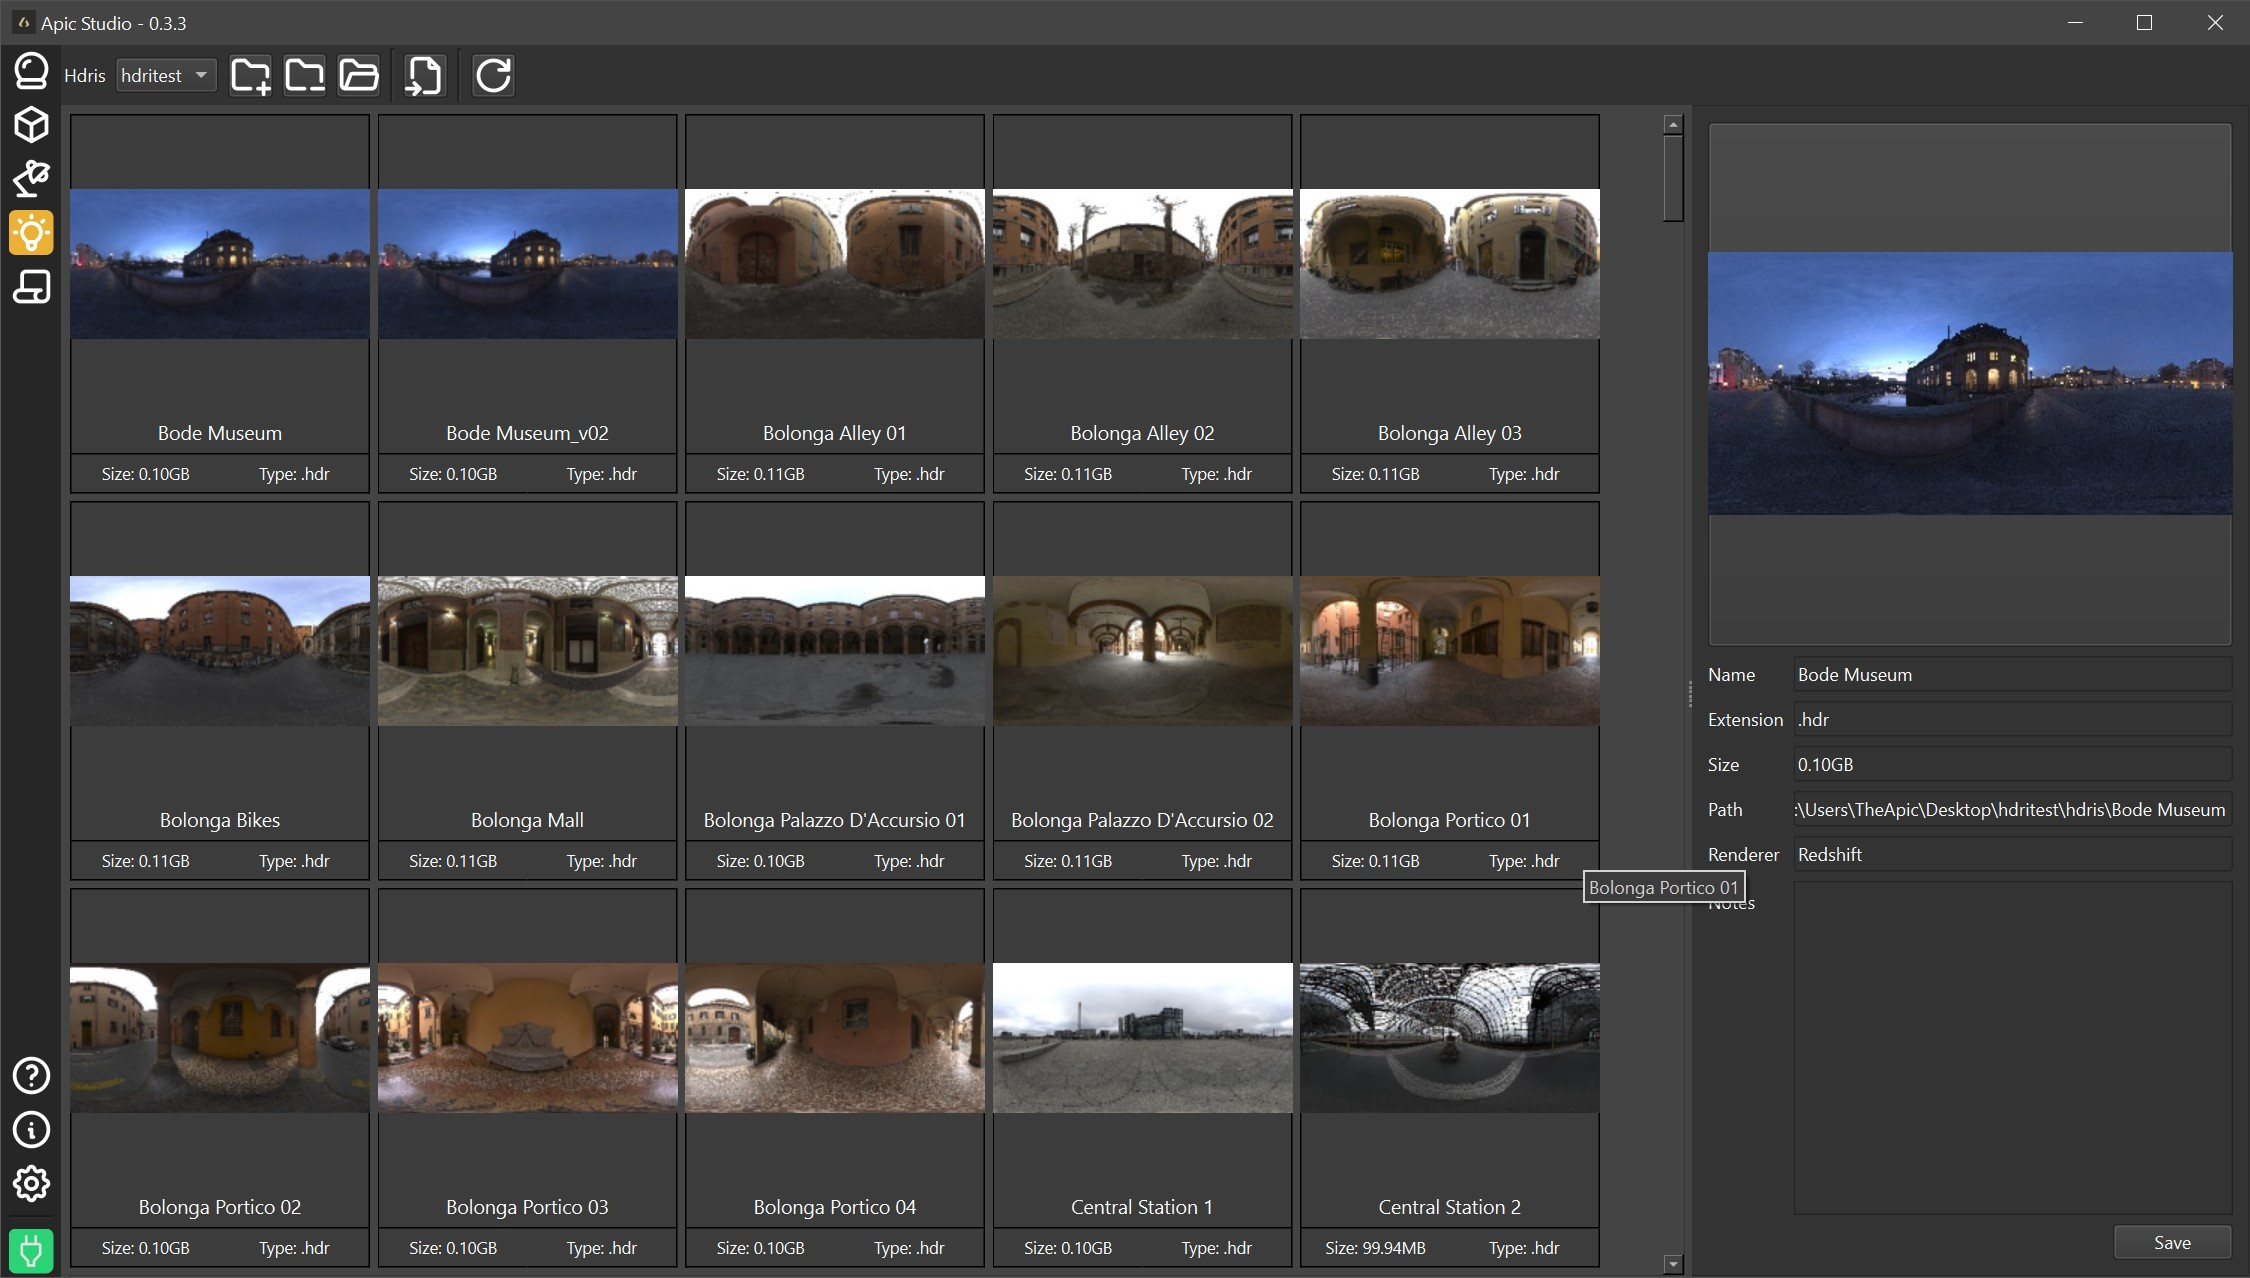
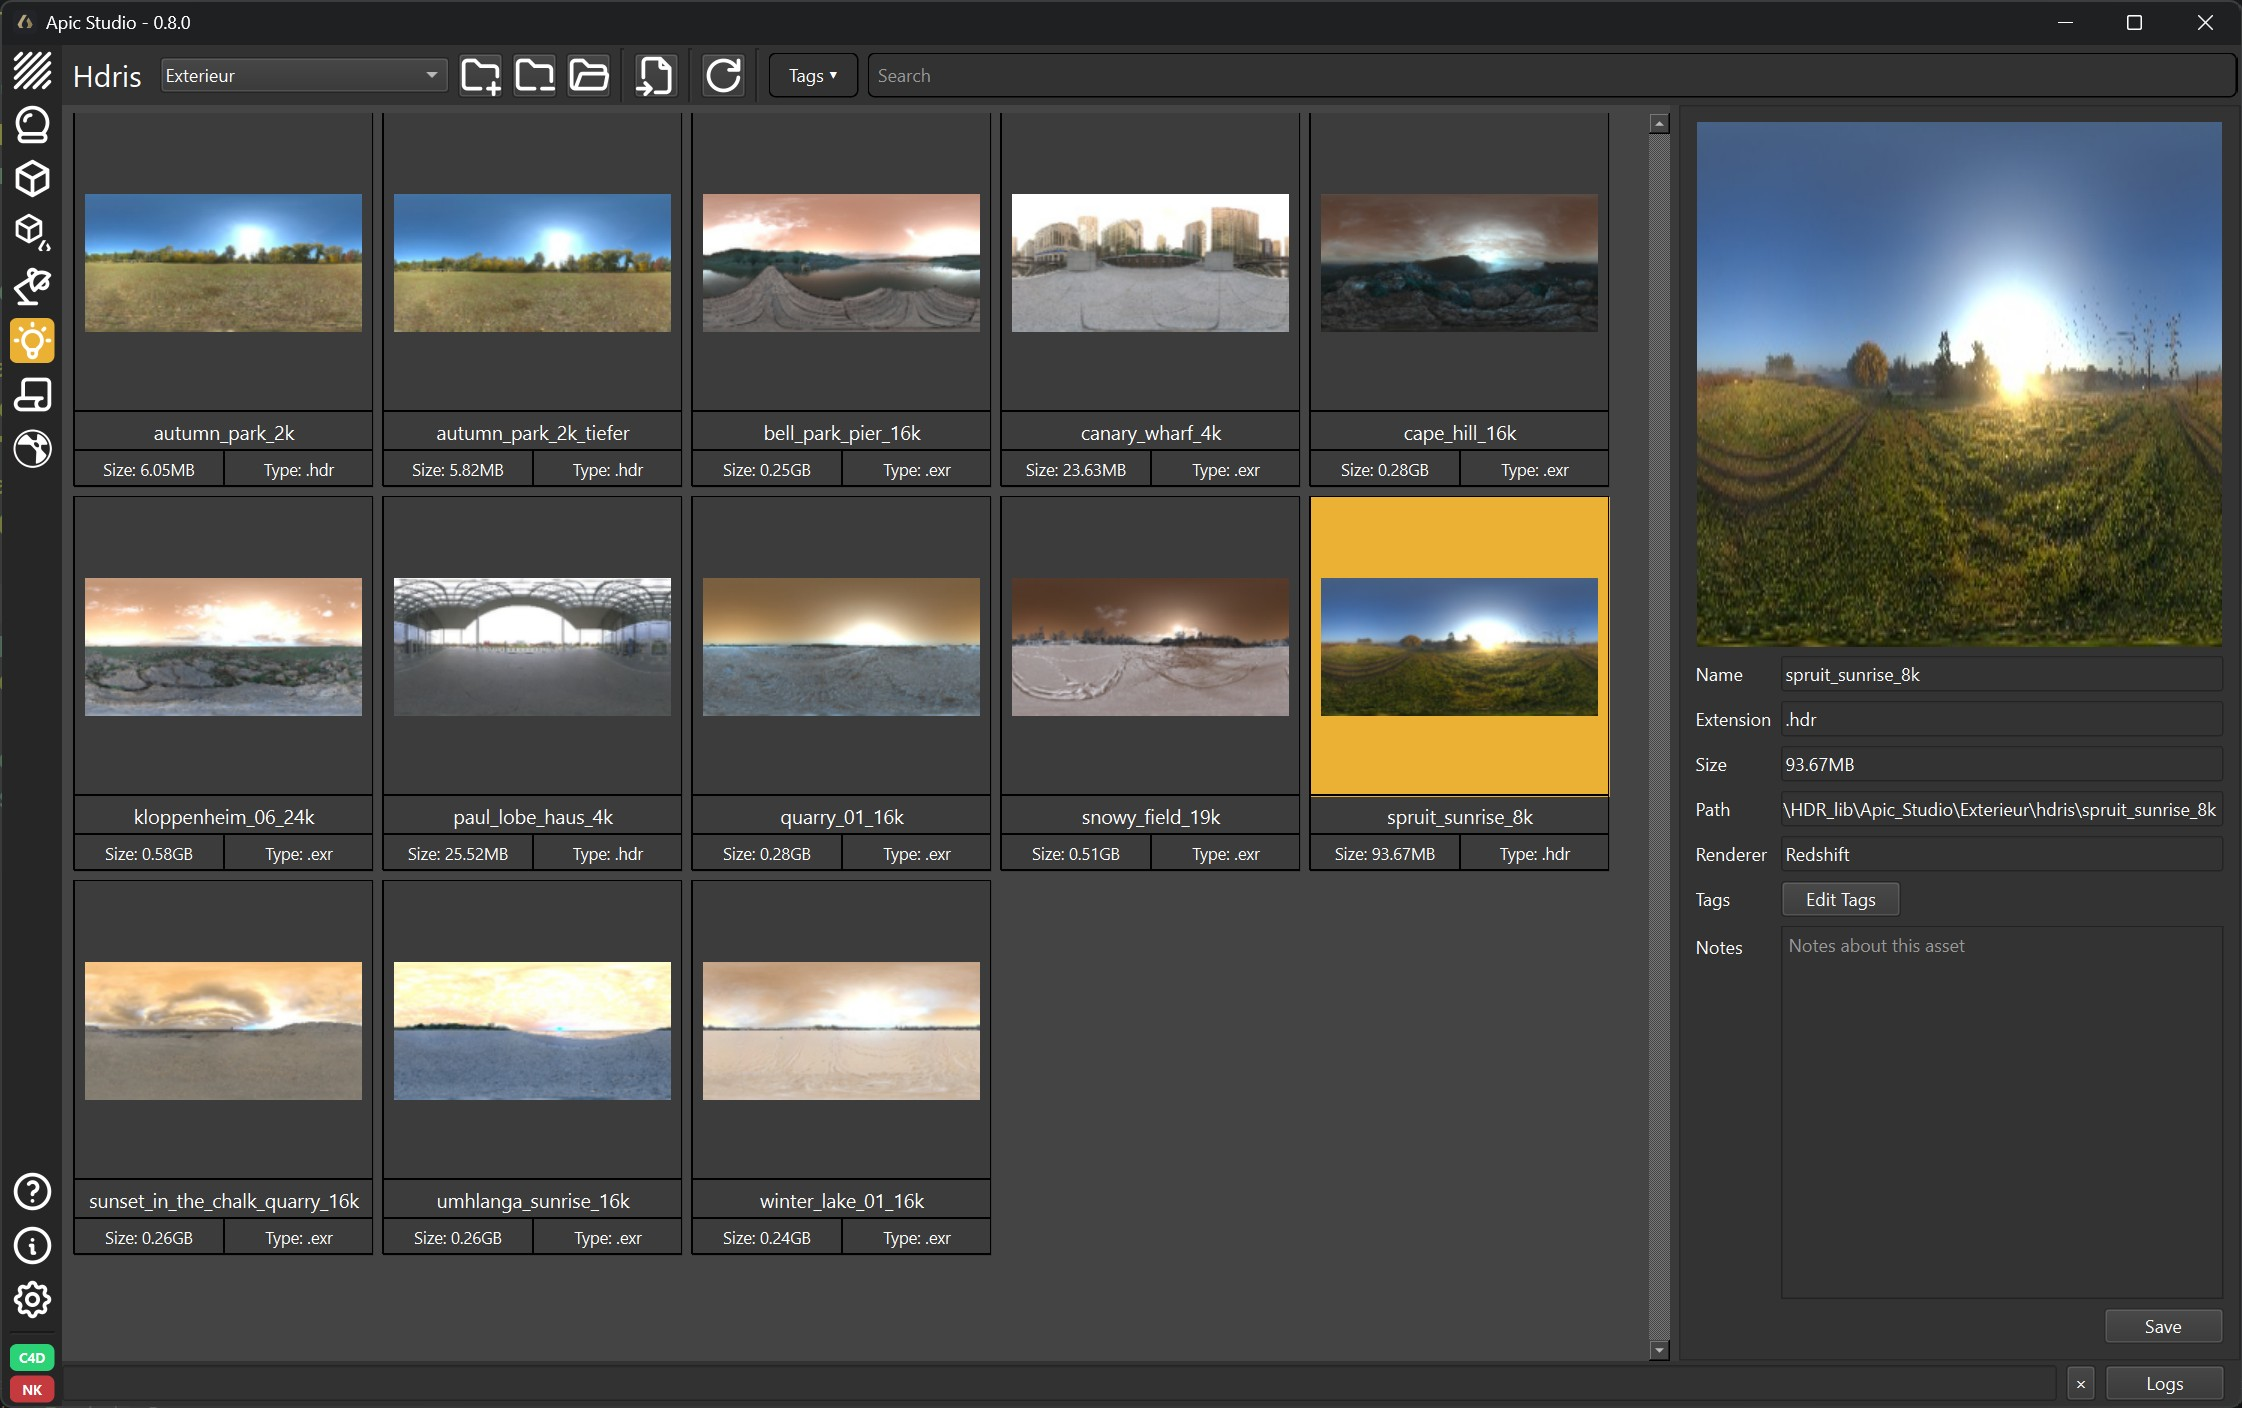
chore: new readme and screenshots

diff --git a/src/apic_studio/core/settings.py b/src/apic_studio/core/settings.py
@@ -7,7 +7,7 @@ from datetime import datetime
 from enum import Enum
 from pathlib import Path
 from socket import gethostname
-from typing import Any, TypeVar
+from typing import Any, ClassVar, TypeVar
 
 from shared.logger import Logger
 
@@ -20,7 +20,7 @@ class Renderer(Enum):
 
 
 class Settings(ABC):
-    settings: dict[str, type[Settings]] = {}
+    settings: ClassVar[dict[str, type[Settings]]] = {}
 
     def __init__(self):
         self.pools = {}
@@ -159,6 +159,14 @@ class CoreSettings(Settings):
     @property
     def nuke_address(self) -> tuple[str, int]:
         return (self.socket_addr, self.nuke_socket_port)
+
+    @property
+    def db_path(self) -> str:
+        return self._db_path
+
+    @property
+    def logging_path(self) -> str:
+        return self._logging_path
 
     def set_root_path(self, value: str):
         self.root_path = value

diff --git a/src/apic_studio/app.py b/src/apic_studio/app.py
@@ -23,7 +23,7 @@ class Application:
         self.settings.load_settings()
 
         Logger.write_to_file(
-            Path(self.settings.CoreSettings._logging_path), level=logging.INFO
+            Path(self.settings.CoreSettings.logging_path), level=logging.INFO
         )
         Logger.set_propagate(False)
         Logger.info("initializing Apic Studio...")

diff --git a/README.md b/README.md
@@ -1,24 +1,23 @@
 # Apic Studio
 
-Apic Studio is a desktop asset management and preview tool tightly integrated with Maxon Cinema 4D.  
-It provides structured pools for materials, models, HDRIs, and lightsets; supports preview rendering, backups, screenshots, and DCC communication to drive Cinema 4D operations (import/export, material previews, HDRI imports, etc.).
+Asset browser for Cinema 4D and Nuke. Assets live in pools on disk, Apic Studio talks to the running DCC to import, export and render previews.
 
 ![materials](./docs/apic-studio-materials.jpg)
+![model](./docs/apic-studio-models.jpg)
 ![hdris](./docs/apic-studio-hdris.jpg)
+![nuke](./docs/apic-studio-nuke.jpg)
 
-## Key Features
+## Features
 
-- Pool-based organization for **Materials**, **Models**, **HDRIs**, and **Lightsets**.
-- Cinema 4D bridge for:
-  - Importing/exporting models and materials.
-  - Rendering material previews.
-  - Loading HDRIs as dome/area lights.
-- Visual asset browser with thumbnails and metadata.
-- Backup system for versioned asset snapshots.
-- Screenshot utility for capturing regions.
-- Settings persistence per machine.
-- SQLite-based pool database.
-- UI built with **PySide6**.
+- Pools for materials, models, Apic models, lightsets, HDRIs, textures, render settings and Nuke scripts
+- Cinema 4D: import, export and reference models, import/export materials, render material previews, load HDRIs as dome or area light, repath textures
+- Render settings: save Cinema 4D and/or Redshift render settings to a pool and load them back into any scene
+- Nuke: export the current comp to a pool, import scripts or open them in place
+- Tags and notes per asset, filter by tags, rename or delete a tag across all pools
+- Search, rename, delete, open in Explorer
+- Archive/backups for models and materials, screenshot tool for thumbnails
+- Details panel (`Ctrl+I`) and a log viewer
+- Connection status for C4D and Nuke in the sidebar, click to reconnect
 
 ## Requirements
 
@@ -36,7 +35,9 @@ It provides structured pools for materials, models, HDRIs, and lightsets; suppor
 
 3. Set C4DPYTHONPATH311 Environment variable to the created directory.
 
-4. Run "Apic Studio.exe"
+4. Nuke (optional): put the directory on the Nuke plugin path and call `apic_connector.nuke.startup.start()` from your `init.py`. It listens on port 1338, change it with `APIC_NUKE_PORT` (has to match the Nuke port in the settings).
+
+5. Run "Apic Studio.exe"
 
 ---
 
@@ -44,7 +45,7 @@ It provides structured pools for materials, models, HDRIs, and lightsets; suppor
 
 #### Requirements
 
-- **Python 3.14**
+- **Python 3.15**
 - **rustup toolchain**
 - **UV Package Manager**
 - **Make** [Optional]
@@ -75,6 +76,5 @@ uv run build.py
 
 ## Future Improvements
 
-- Cross-platform Cinema 4D detection enhancements.
-- Improved error propagation to user dialogs.
-- Asset tagging/filtering UI.
+- Cross-platform Cinema 4D detection
+- Better error messages in dialogs
